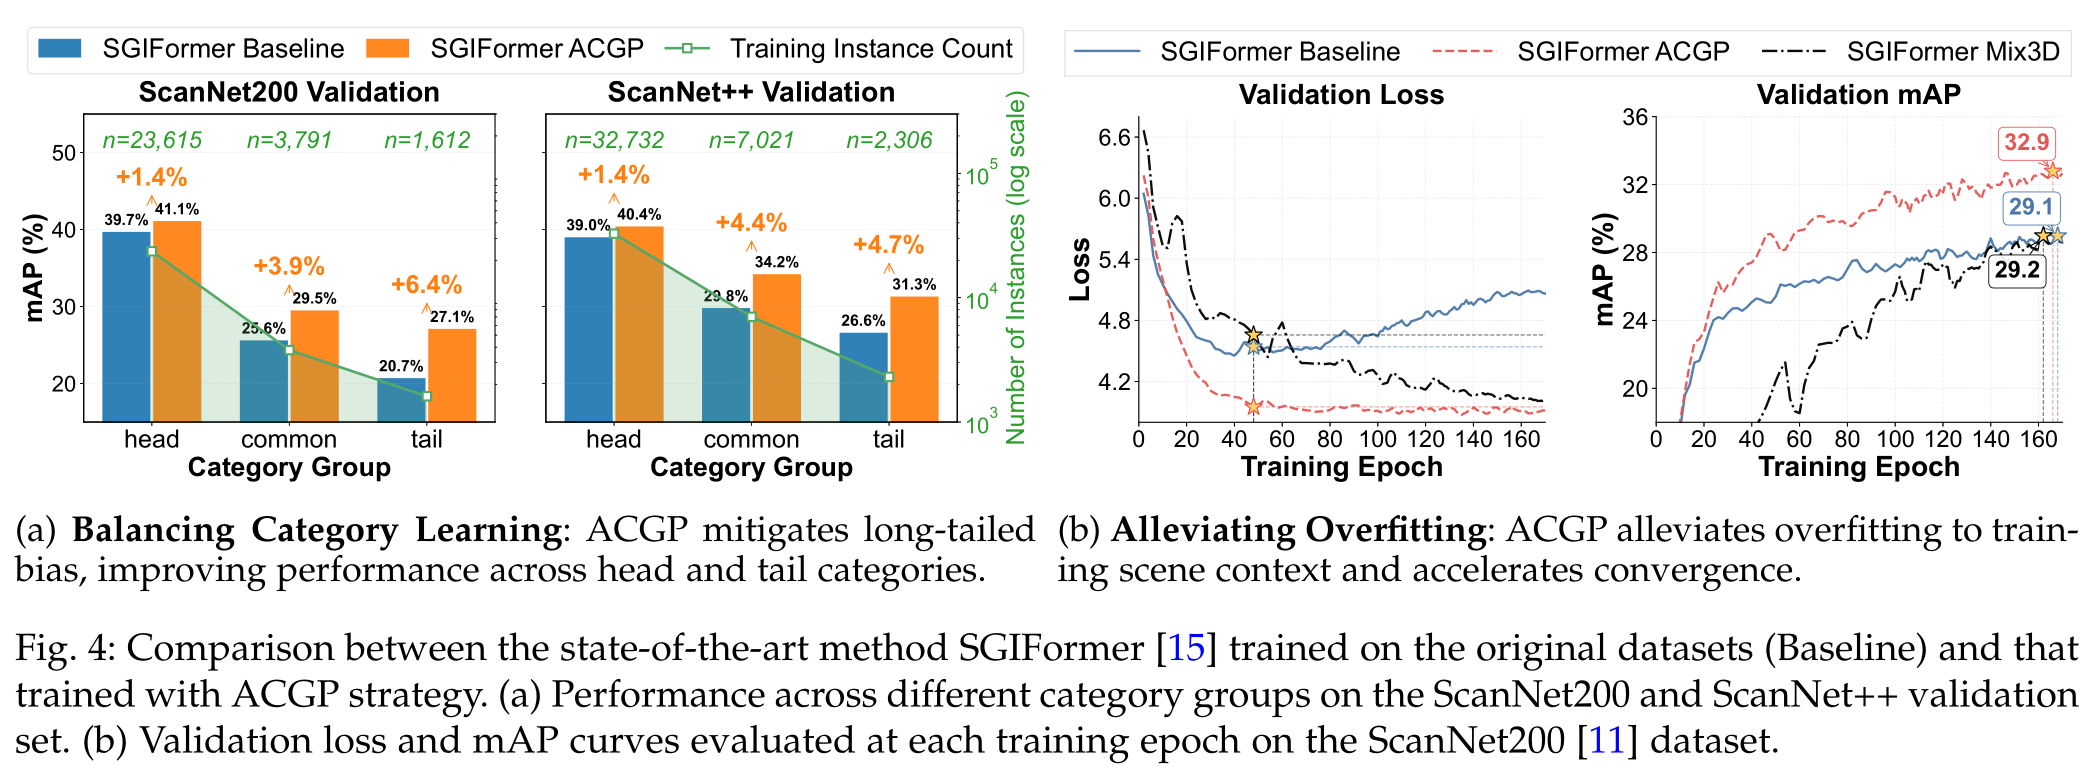
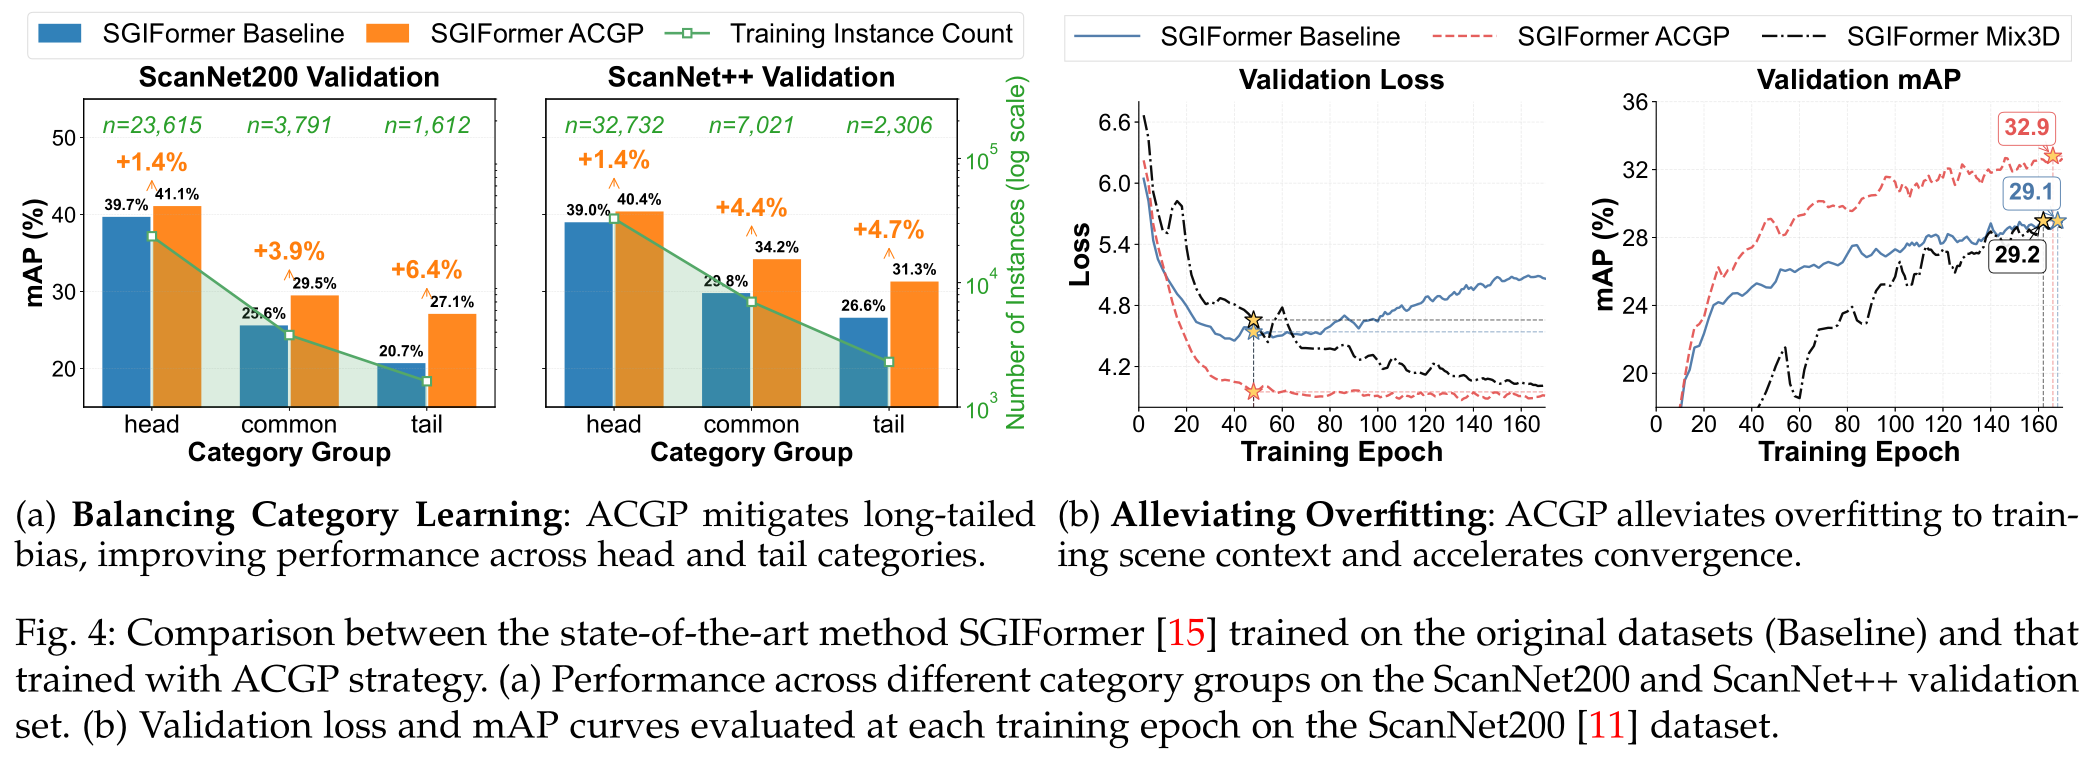
update acgp website

diff --git a/acgp/index.html b/acgp/index.html
@@ -194,7 +194,7 @@
           <span class="is-block">(b) Alleviating contextual overfitting</span>
         </div>
         <figure class="project-figure">
-          <img src="static/images/Method_effectiveness.png" alt="Method Effectiveness" class="center">
+          <img src="static/images/method_effectiveness.png" alt="Method Effectiveness" class="center">
         </figure>
       </div>
 
